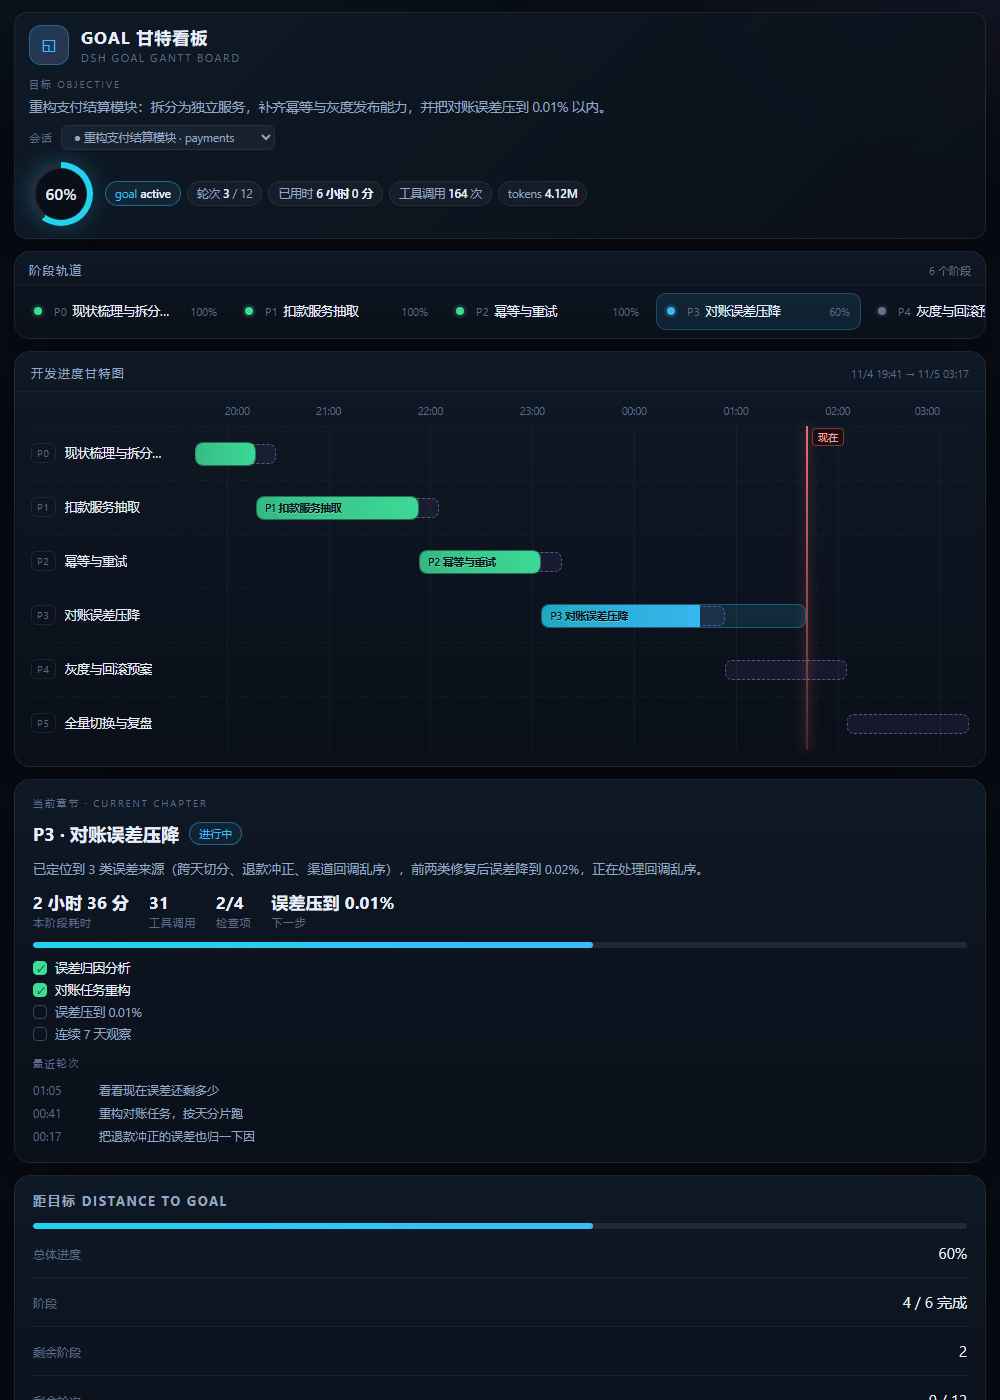
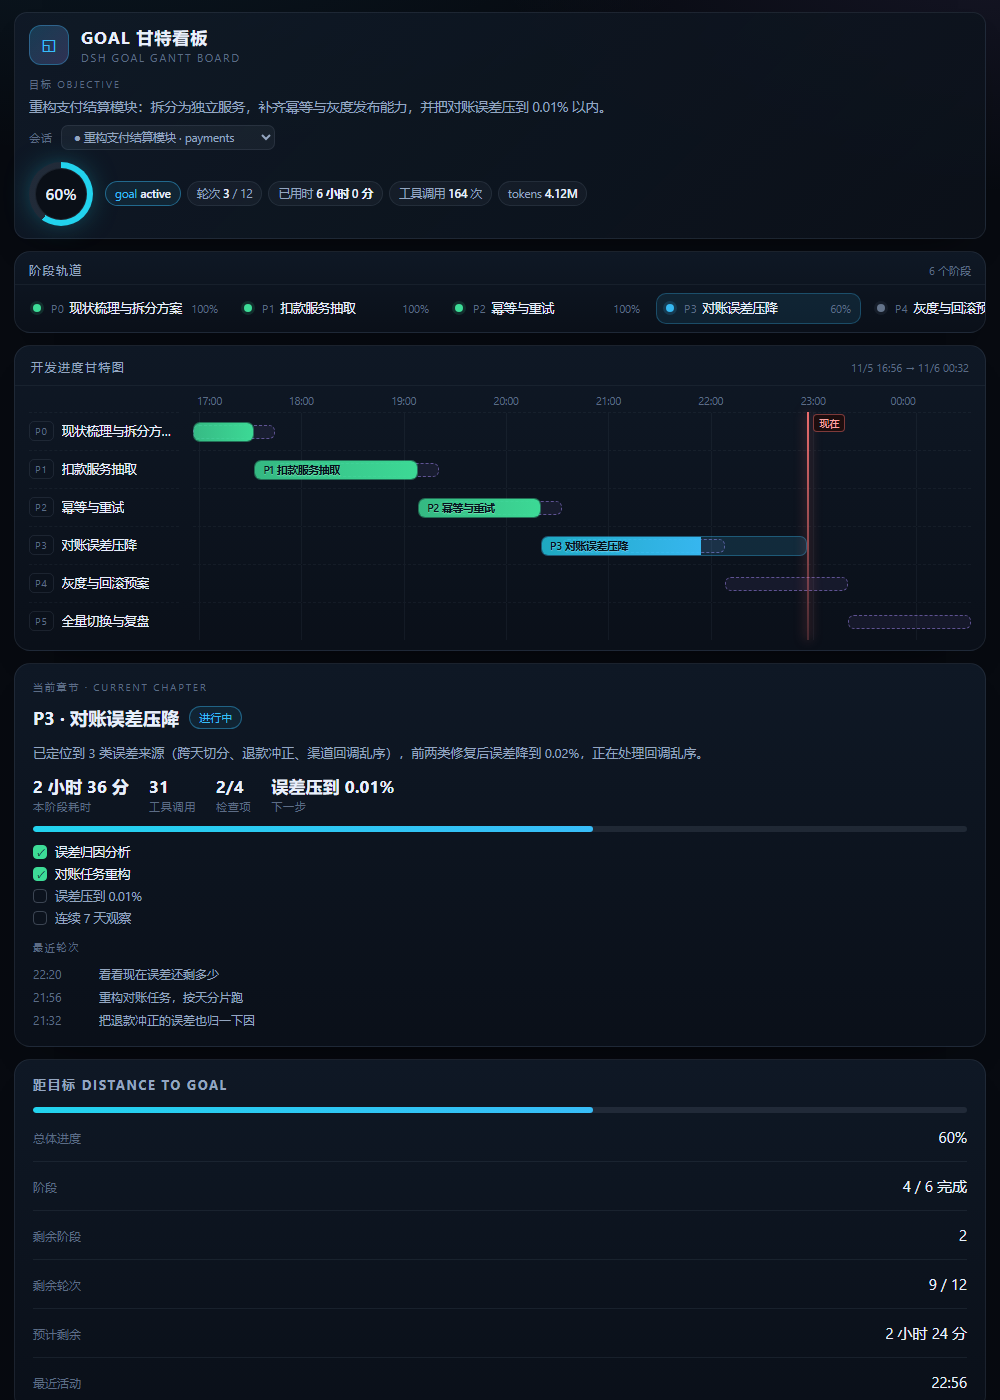
style: tighten gantt rows from 54px to 38px
Six phases now fit in roughly the vertical space of four, so the current
chapter and distance panels stay above the fold in the conversation tab.
Bars, planned bars, axis ticks and rail rows scale down with it.

diff --git a/lib/assets/board.css b/lib/assets/board.css
@@ -157,8 +157,8 @@ main > * { min-width: 0; }
 .rail { padding: 8px; display: flex; flex-direction: column; gap: 2px; max-height: calc(100vh - 150px); overflow: auto; }
 
 .rail-item {
-  display: grid; grid-template-columns: 10px 1fr auto; gap: 10px; align-items: center;
-  padding: 9px 10px; border-radius: 10px; cursor: pointer; border: 1px solid transparent;
+  display: grid; grid-template-columns: 10px 1fr auto; gap: 8px; align-items: center;
+  padding: 6px 9px; border-radius: 10px; cursor: pointer; border: 1px solid transparent;
   transition: background .15s ease, border-color .15s ease;
 }
 .rail-item:hover { background: rgba(148, 163, 184, .07); }
@@ -178,11 +178,11 @@ main > * { min-width: 0; }
 /* ----------------------------------------------------------------- gantt */
 
 .gantt-panel { grid-area: gantt; }
-.gantt { padding: 12px 16px 16px; min-width: 0; overflow-x: auto; }
+.gantt { padding: 8px 14px 10px; min-width: 0; overflow-x: auto; }
 
 .gaxis { display: grid; grid-template-columns: 208px minmax(0, 1fr); gap: 14px; }
 .gaxis .spacer { }
-.gaxis .ticks { position: relative; height: 22px; }
+.gaxis .ticks { position: relative; height: 18px; }
 .tick {
   position: absolute; transform: translateX(-50%);
   font-size: 10.5px; color: var(--dim); white-space: nowrap; font-variant-numeric: tabular-nums;
@@ -197,8 +197,8 @@ main > * { min-width: 0; }
 .gtracks { position: relative; }
 
 .glab {
-  display: flex; align-items: center; gap: 9px; min-width: 0; padding-right: 4px;
-  height: 54px; border-top: 1px dashed rgba(148, 163, 184, .07);
+  display: flex; align-items: center; gap: 8px; min-width: 0; padding-right: 4px;
+  height: 38px; border-top: 1px dashed rgba(148, 163, 184, .07);
 }
 .glab .gid {
   font-size: 10px; letter-spacing: .08em; color: var(--dim);
@@ -206,17 +206,17 @@ main > * { min-width: 0; }
 }
 .glab .gname { font-size: 12.5px; color: var(--txt); overflow: hidden; text-overflow: ellipsis; white-space: nowrap; }
 
-.gtrack { position: relative; height: 54px; border-top: 1px dashed rgba(148, 163, 184, .07); }
+.gtrack { position: relative; height: 38px; border-top: 1px dashed rgba(148, 163, 184, .07); }
 .gtrack .grid { position: absolute; inset: 0; pointer-events: none; }
 .gtrack .gl { position: absolute; top: 0; bottom: 0; width: 1px; background: rgba(148, 163, 184, .07); }
 
 .gplan {
-  position: absolute; top: 17px; height: 20px; border-radius: 7px;
+  position: absolute; top: 12px; height: 14px; border-radius: 6px;
   border: 1px dashed rgba(167, 139, 250, .5); background: rgba(167, 139, 250, .07);
 }
 
 .gbar {
-  position: absolute; top: 15px; height: 24px; border-radius: 8px;
+  position: absolute; top: 9px; height: 20px; border-radius: 7px;
   background: rgba(56, 189, 248, .14);
   border: 1px solid rgba(56, 189, 248, .32);
   overflow: hidden; cursor: pointer;
